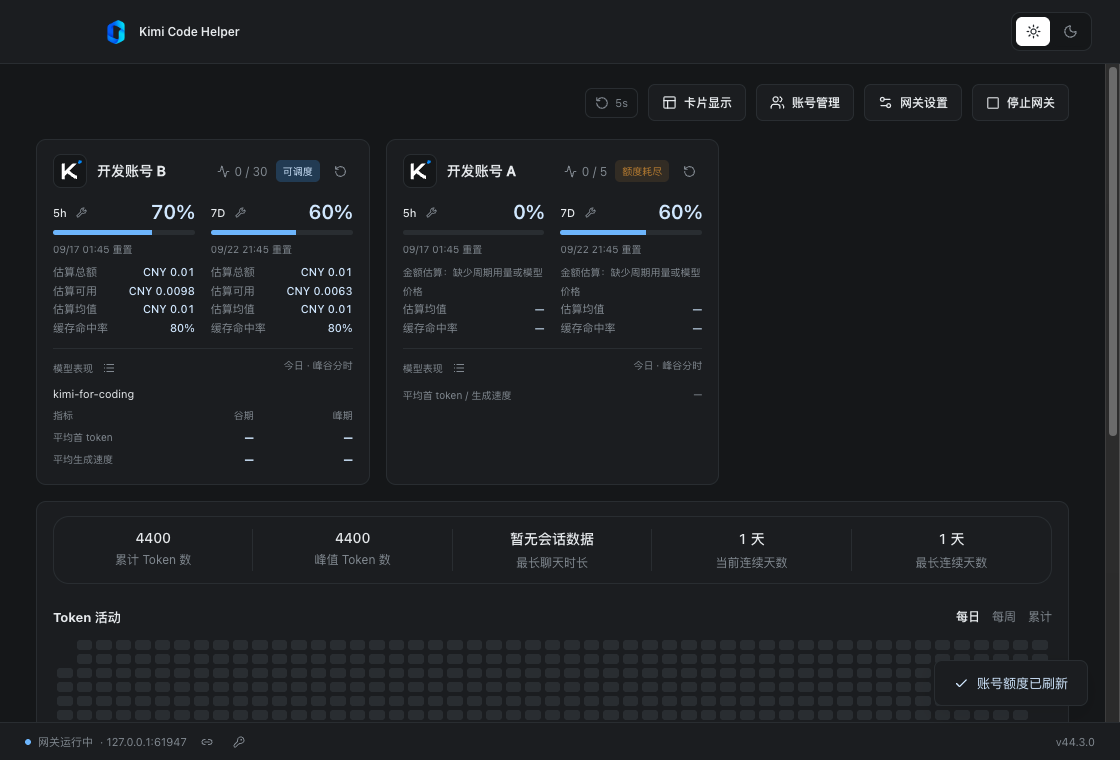
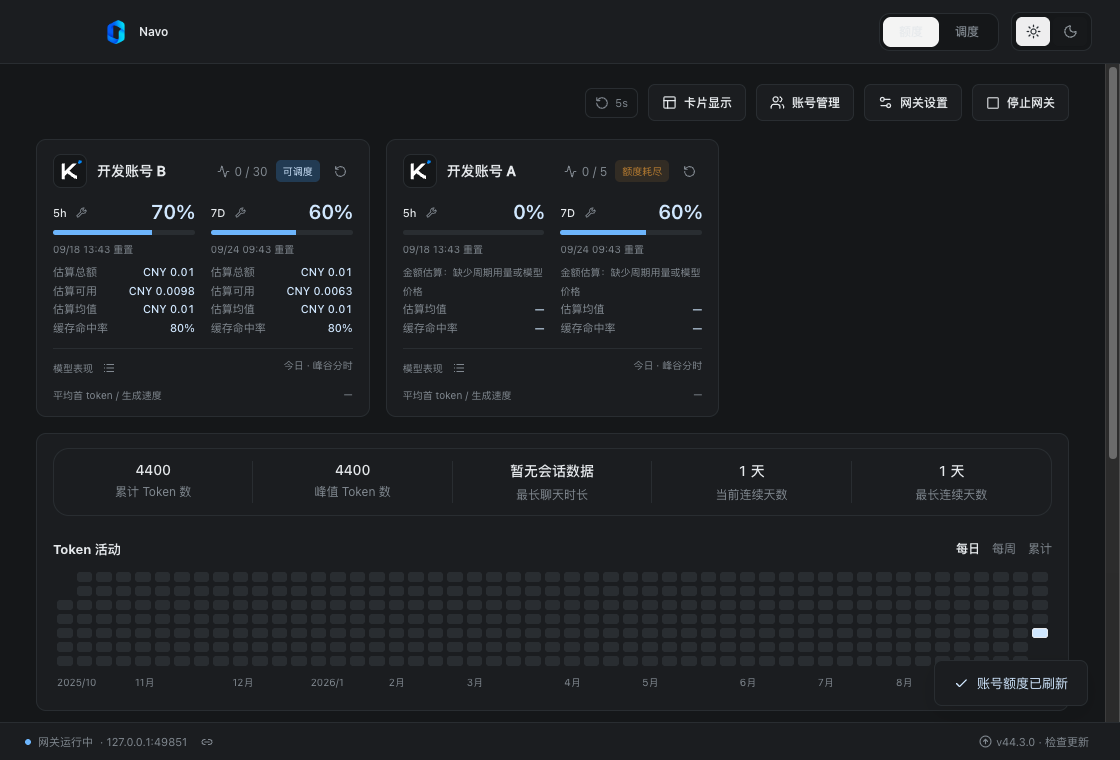
feat: 更名为 Navo 并保留旧版配置和更新兼容

diff --git a/src/main/index.ts b/src/main/index.ts
@@ -21,7 +21,9 @@ import { UpdateService } from './services/updates'
 import { UnsignedMacUpdater } from './services/mac-updater'
 import { createTray } from './tray'
 
-app.setName('Kimi Code Helper')
+app.setName('Navo')
+// Preserve existing accounts, settings and the single-instance lock across the rename.
+app.setPath('userData', join(app.getPath('appData'), 'Kimi Code Helper'))
 // 自动化验证使用临时目录，避免改变用户设置。
 if (process.env.KIMI_HELPER_TEST_USER_DATA)
   app.setPath('userData', process.env.KIMI_HELPER_TEST_USER_DATA)
@@ -70,7 +72,7 @@ function createWindow(): void {
     height: 760,
     minWidth: 640,
     minHeight: 440,
-    title: 'Kimi Code Helper',
+    title: 'Navo',
     backgroundColor: nativeTheme.shouldUseDarkColors ? '#151719' : '#f8f9fa',
     show: false,
     ...(process.platform === 'darwin'
@@ -165,7 +167,7 @@ void app
     })
     handle(IPC.updateInstall, () => updater.install())
     handle(IPC.updateOpenRelease, () =>
-      shell.openExternal('https://github.com/DuskLin/kimi-code-helper/releases/latest')
+      shell.openExternal('https://github.com/DuskLin/navo/releases/latest')
     )
     handle(IPC.appInfo, () => ({
       version: app.getVersion(),
@@ -248,7 +250,7 @@ void app
   .catch((error) => {
     console.error('应用启动失败：', error)
     dialog.showErrorBox(
-      'Kimi Code Helper 启动失败',
+      'Navo 启动失败',
       error instanceof Error ? error.message : '无法读取本地配置'
     )
     app.quit()

diff --git a/src/main/tray.ts b/src/main/tray.ts
@@ -1,5 +1,5 @@
 import { app, Menu, nativeImage, Tray } from 'electron'
-import appLogo from '../renderer/src/assets/kimi-code-helper-logo.png?asset'
+import appLogo from '../renderer/src/assets/navo-logo.png?asset'
 
 function trayIcon(source: Electron.NativeImage, phase?: number): Electron.NativeImage {
   const icon = nativeImage.createEmpty()
@@ -44,7 +44,7 @@ export function createTray(
   const unsubscribe = subscribe((count) => {
     if (tray.isDestroyed()) return
     tray.setToolTip(
-      count > 0 ? `Kimi Code Helper · 正在处理 ${count} 个请求` : 'Kimi Code Helper · 空闲'
+      count > 0 ? `Navo · 正在处理 ${count} 个请求` : 'Navo · 空闲'
     )
     if (count > 0 && !timer) {
       frame = 0
@@ -74,7 +74,7 @@ export function createTray(
       { label: '显示主窗口', click: showWindow },
       { label: '关闭窗口后，网关继续在后台运行', enabled: false },
       { type: 'separator' },
-      { label: '退出 Kimi Code Helper', click: () => app.quit() }
+      { label: '退出 Navo', click: () => app.quit() }
     ])
   )
   // macOS single click opens the menu; Windows/Linux can also restore directly.

diff --git a/src/renderer/src/App.tsx b/src/renderer/src/App.tsx
@@ -2,7 +2,7 @@ import { useEffect, useRef, useState } from 'react'
 import { Check, Link2, Moon, Sun } from 'lucide-react'
 import type { AppInfo, Theme } from '../../shared/contracts'
 import { GatewayPanel, type GatewayStatus, type GatewayPage } from './GatewayPanel'
-import appLogo from './assets/kimi-code-helper-logo.png'
+import appLogo from './assets/navo-logo.png'
 import { UpdateControl } from './UpdateControl'
 
 const viewStorageKey = 'kimi-helper.main-view'
@@ -96,9 +96,9 @@ export function App() {
   return (
     <div className={`app-shell ${info?.platform === 'darwin' ? 'macos' : ''}`}>
       <header className="titlebar">
-        <div className="app-brand" aria-label="Kimi Code Helper">
+        <div className="app-brand" aria-label="Navo">
           <img src={appLogo} alt="" aria-hidden="true" />
-          <span>Kimi Code Helper</span>
+          <span>Navo</span>
         </div>
         <div className="titlebar-controls">
           <div

diff --git a/src/main/services/gateway.ts b/src/main/services/gateway.ts
@@ -532,7 +532,7 @@ export class Gateway {
               ? {
                   'kimi-code-helper': {
                     id: 'kimi-code-helper',
-                    name: 'Kimi Code Helper',
+                    name: 'Navo',
                     type: 'openai',
                     api: `http://${settings.lanSharing && isPrivateIPv4(req.socket.localAddress ?? '') ? req.socket.localAddress : '127.0.0.1'}:${settings.port}${harnessPath ? `/harness/${harnessPath[1]}` : ''}/v1`,
                     models: registryModels(

diff --git a/src/renderer/index.html b/src/renderer/index.html
@@ -7,7 +7,7 @@
       http-equiv="Content-Security-Policy"
       content="default-src 'self'; script-src 'self'; style-src 'self' 'unsafe-inline'; img-src 'self' data:; font-src 'self'; connect-src 'self' ws://localhost:* ws://127.0.0.1:*"
     />
-    <title>Kimi Code Helper</title>
+    <title>Navo</title>
   </head>
   <body>
     <div id="root"></div>

diff --git a/tests/gateway.test.ts b/tests/gateway.test.ts
@@ -290,7 +290,7 @@ test('api.json exports a live authenticated Kimi Code registry without secrets',
     assert.deepEqual(JSON.parse(body), {
       'kimi-code-helper': {
         id: 'kimi-code-helper',
-        name: 'Kimi Code Helper',
+        name: 'Navo',
         type: 'openai',
         api: `${reserved.url}/v1`,
         models: {

diff --git a/scripts/recording-to-svg.py b/scripts/recording-to-svg.py
@@ -39,7 +39,7 @@ with tempfile.TemporaryDirectory(prefix="recording-svg-") as temporary:
     duration = len(frames) / args.fps
     svg = [
         f'<svg xmlns="http://www.w3.org/2000/svg" width="{width}" height="{height}" viewBox="0 0 {width} {height}" role="img" aria-labelledby="title desc">',
-        '<title id="title">Kimi Code Helper — live gateway flow</title>',
+        '<title id="title">Navo — live gateway flow</title>',
         '<desc id="desc">Screen recording of the dark dashboard. Cyan connections show uploads; purple connections show responses. Embedded raster frames, not vectorized artwork.</desc>',
         '<style>@media (prefers-reduced-motion: reduce) { .frame { display: none; } }</style>',
         f'<image width="{width}" height="{height}" href="{data[0]}"/>',

diff --git a/README.en.md b/README.en.md
@@ -1,15 +1,17 @@
 <p align="center">
-  <img src="src/renderer/src/assets/kimi-code-helper-logo.png" alt="Kimi Code Helper logo" width="88" />
+  <img src="src/renderer/src/assets/navo-logo.png" alt="Navo logo" width="88" />
 </p>
 
-<h1 align="center">Kimi Code Helper</h1>
+<h1 align="center">Navo</h1>
+
+Navo was previously named Kimi Code Helper. Existing accounts, settings, and the update channel are preserved. The macOS `.app` filename, update ZIP filename, and data directory retain their legacy names for compatibility with installed versions; DMG installers use `Navo-VERSION-mac-ARCH.dmg`.
 
 <p align="center">One desktop app to manage Kimi Code, DeepSeek, and OpenCode Go accounts, requests, and usage.</p>
 
 <p align="center"><a href="README.md">简体中文</a> · <strong>English</strong></p>
 
 <p align="center">
-  <a href="https://github.com/DuskLin/kimi-code-helper/releases">Downloads</a> ·
+  <a href="https://github.com/DuskLin/navo/releases">Downloads</a> ·
   <a href="#quick-start">Quick start</a> ·
   <a href="#connect-your-client">Client setup</a> ·
   <a href="docs/reference.zh-CN.md">Technical reference (Chinese)</a>
@@ -21,7 +23,7 @@
 
 ## Features
 
-Kimi Code Helper combines provider accounts into a local pool and gives coding assistants a single HTTP gateway on `127.0.0.1`. Loopback clients do not need a key; LAN clients use a gateway key. The app selects an available account, forwards requests, and records usage.
+Navo combines provider accounts into a local pool and gives coding assistants a single HTTP gateway on `127.0.0.1`. Loopback clients do not need a key; LAN clients use a gateway key. The app selects an available account, forwards requests, and records usage.
 
 | Feature                | What it does                                                                                                                     |
 | ---------------------- | -------------------------------------------------------------------------------------------------------------------------------- |
@@ -41,13 +43,15 @@ Kimi Code Helper combines provider accounts into a local pool and gives coding a
 
 ## Screenshots
 
-The app adds a menu bar / system tray icon on launch. Closing the main window hides it while the gateway keeps running in the background. Choose “显示主窗口” (Show main window) from the icon menu, or launch the app again, to restore it. Choose “退出 Kimi Code Helper” (Quit Kimi Code Helper) to stop the gateway and exit; macOS also supports ⌘Q.
+The app adds a menu bar / system tray icon on launch. Closing the main window hides it while the gateway keeps running in the background. Choose “显示主窗口” (Show main window) from the icon menu, or launch the app again, to restore it. Choose “退出 Navo” (Quit Navo) to stop the gateway and exit; macOS also supports ⌘Q.
 
 ### Live gateway dashboard
 
 Switch between **额度** (Quotas) and **调度** (Live flow) in the title bar. This looping SVG was converted from an actual screen recording:
 
 ![Live dashboard showing bidirectional traffic between clients, sessions, and models](docs/images/live-flow-demo.svg)
+
+This animation was recorded before the rename; Kimi Code Helper in the recording is now Navo.
 
 - **Live topology:** real gateway requests form Harness → session → model branches. Main-agent, subagent, and concurrent calls sharing a session use one node; this is not a count of internal agents. Model IDs and input/output token usage update with requests.
 - **Directional connections:** cyan flows right for uploads; purple flows left for responses. Animation reflects recent transfer events while node backgrounds stay static. Token counts use reported usage; missing values show “—”.
@@ -89,13 +93,13 @@ The app uses fixed upstream addresses and fetches model lists from each provider
 
 ### Install or run from source
 
-Check [Releases](https://github.com/DuskLin/kimi-code-helper/releases) for available versions and assets. Packaging targets include macOS (DMG / ZIP), Windows (NSIS EXE), and Linux (AppImage). macOS uses ad hoc signing; developer certificate signing and notarization are not configured. Windows code signing is not configured either.
+Check [Releases](https://github.com/DuskLin/navo/releases) for available versions and assets. Packaging targets include macOS (DMG / ZIP), Windows (NSIS EXE), and Linux (AppImage). macOS uses ad hoc signing; developer certificate signing and notarization are not configured. Windows code signing is not configured either.
 
 To run from source, install **Node.js 22.12.0 or later** and npm:
 
 ```bash
-git clone https://github.com/DuskLin/kimi-code-helper.git
-cd kimi-code-helper
+git clone https://github.com/DuskLin/navo.git
+cd navo
 npm ci
 npm run dev
 ```

diff --git a/README.md b/README.md
@@ -1,15 +1,17 @@
 <p align="center">
-  <img src="src/renderer/src/assets/kimi-code-helper-logo.png" alt="Kimi Code Helper 标志" width="88" />
+  <img src="src/renderer/src/assets/navo-logo.png" alt="Navo 标志" width="88" />
 </p>
 
-<h1 align="center">Kimi Code Helper</h1>
+<h1 align="center">Navo</h1>
+
+Navo 原名 Kimi Code Helper。改名后继续使用原有账号、配置和更新通道；为兼容旧版自动更新，macOS 的 `.app` 文件名、更新 ZIP 文件名及数据目录暂时保留旧名称，DMG 安装包使用 `Navo-版本号-mac-架构.dmg`。
 
 <p align="center">一个桌面应用，统一管理 Kimi Code、DeepSeek 与 OpenCode Go 账号、请求和用量。</p>
 
 <p align="center"><strong>简体中文</strong> · <a href="README.en.md">English</a></p>
 
 <p align="center">
-  <a href="https://github.com/DuskLin/kimi-code-helper/releases">下载安装包</a> ·
+  <a href="https://github.com/DuskLin/navo/releases">下载安装包</a> ·
   <a href="#快速开始">快速开始</a> ·
   <a href="#客户端接入">客户端接入</a> ·
   <a href="docs/reference.zh-CN.md">技术参考</a>
@@ -21,7 +23,7 @@
 
 ## 能做什么
 
-Kimi Code Helper 将多个供应商账号汇入本地账号池，通过 `127.0.0.1` 上的 HTTP 网关为编程助手提供统一入口。本机回环连接无需密钥，局域网客户端使用网关密钥，应用负责选择可用账号、转发请求和记录用量。
+Navo 将多个供应商账号汇入本地账号池，通过 `127.0.0.1` 上的 HTTP 网关为编程助手提供统一入口。本机回环连接无需密钥，局域网客户端使用网关密钥，应用负责选择可用账号、转发请求和记录用量。
 
 | 功能           | 说明                                                                                    |
 | -------------- | --------------------------------------------------------------------------------------- |
@@ -41,7 +43,7 @@ Kimi Code Helper 将多个供应商账号汇入本地账号池，通过 `127.0.0
 
 ## 界面预览
 
-应用启动后会显示状态栏／系统托盘图标。关闭主窗口会隐藏窗口，网关继续在后台运行；点击图标菜单中的「显示主窗口」可恢复界面，再次启动应用也会恢复已有窗口。需要完全退出并停止网关时，选择「退出 Kimi Code Helper」（macOS 也可使用 ⌘Q）。
+应用启动后会显示状态栏／系统托盘图标。关闭主窗口会隐藏窗口，网关继续在后台运行；点击图标菜单中的「显示主窗口」可恢复界面，再次启动应用也会恢复已有窗口。需要完全退出并停止网关时，选择「退出 Navo」（macOS 也可使用 ⌘Q）。
 
 状态栏图标空闲时为白色；网关正在处理请求时，蓝色光带沿 Logo 顺时针流转，悬停可查看当前请求数。所有请求结束后自动恢复白色。
 
@@ -50,6 +52,8 @@ Kimi Code Helper 将多个供应商账号汇入本地账号池，通过 `127.0.0
 点击右上角「额度／调度」切换视图。下面是实际操作录屏转换的循环动画 SVG：
 
 ![实时调度看板：客户端、会话及模型之间的双向请求流动](docs/images/live-flow-demo.svg)
+
+此动图录制于改名前，画面中的 Kimi Code Helper 即 Navo。
 
 - **实时拓扑**：按 Harness → 会话 → 模型展示真实网关请求。同一会话的主 Agent、子 Agent 与并发调用汇总到同一节点，模型名称及输入／输出 Token 随请求更新；不代表客户端内部独立 Agent 数量。
 - **双向连线**：青色向右表示上传，紫色向左表示响应下传；最近有实际收发事件时连线流动，节点背景保持静态。Token 以实际 usage 上报为准，未上报显示「—」。
@@ -91,13 +95,13 @@ Kimi Code Helper 将多个供应商账号汇入本地账号池，通过 `127.0.0
 
 ### 安装或从源码启动
 
-在 [Releases](https://github.com/DuskLin/kimi-code-helper/releases) 查看可用版本与附件。打包配置支持 macOS（DMG / ZIP）、Windows（NSIS EXE）和 Linux（AppImage）；macOS 使用 ad hoc 签名，尚未配置开发者证书签名和公证，Windows 尚未配置代码签名。
+在 [Releases](https://github.com/DuskLin/navo/releases) 查看可用版本与附件。打包配置支持 macOS（DMG / ZIP）、Windows（NSIS EXE）和 Linux（AppImage）；macOS 使用 ad hoc 签名，尚未配置开发者证书签名和公证，Windows 尚未配置代码签名。
 
 从源码运行需要 **Node.js 22.12.0 或更高版本**及 npm：
 
 ```bash
-git clone https://github.com/DuskLin/kimi-code-helper.git
-cd kimi-code-helper
+git clone https://github.com/DuskLin/navo.git
+cd navo
 npm ci
 npm run dev
 ```

diff --git a/docs/reference.zh-CN.md b/docs/reference.zh-CN.md
@@ -1,4 +1,4 @@
-# Kimi Code Helper · 技术参考
+# Navo · 技术参考
 
 [返回中文首页](../README.md) · [English README](../README.en.md)
 
